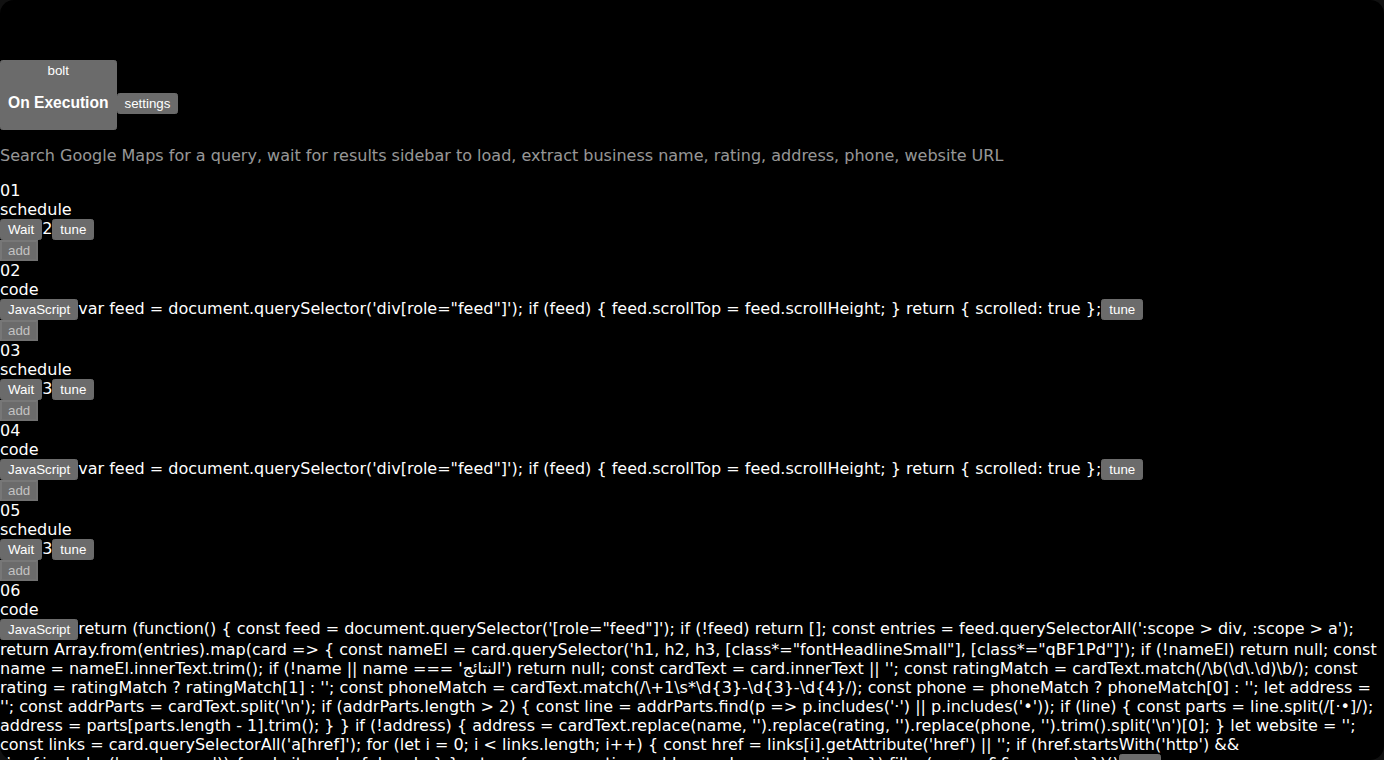
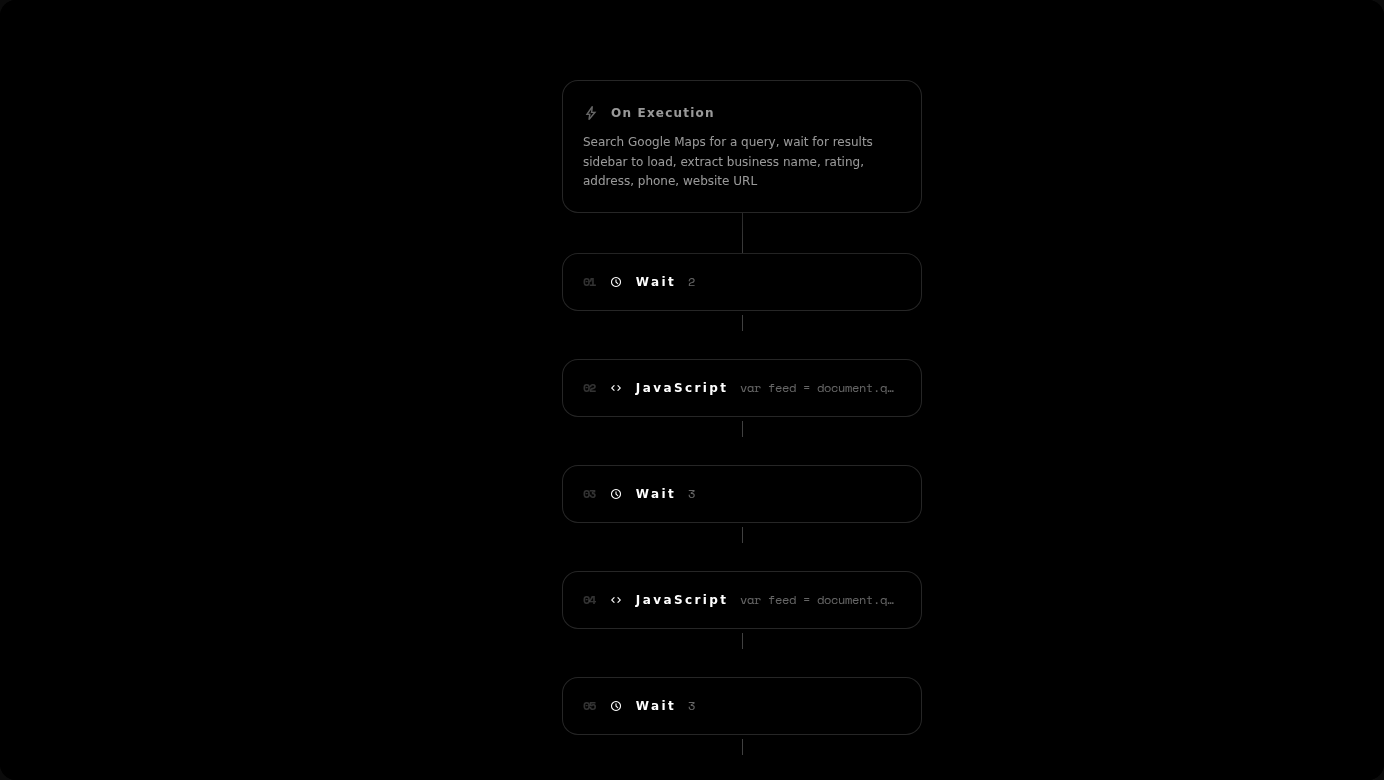
Fix Figranium styling and use live CSS fallback (#4)
* fix: compile canonical Tailwind styles

* fix: process Figranium Tailwind in embed builds

* fix: scan canonical Figranium UI classes

* feat: prefer live Figranium CSS with bundled fallback

* feat: add deterministic bundled-style option

* test: verify styled live embed and recapture screenshot

* ci: recapture corrected Embed screenshot

* docs: replace broken embed screenshot

* docs: explain live styles and bundled fallback

* docs: replace broken embed screenshot

* fix: load canonical Figranium fonts in iframe

* docs: replace broken embed screenshot

* docs: clarify read-only presentation controls

* docs: replace broken embed screenshot

* docs: clarify preserved task content

* docs: replace broken embed screenshot

* fix: guarantee read-only control hiding in embed CSS

* fix: hide all insertion controls in read-only embed

* docs: replace broken embed screenshot

* chore: remove temporary screenshot test harness

* chore: remove temporary screenshot workflow

---------

diff --git a/src/iframe.tsx b/src/iframe.tsx
@@ -8,9 +8,11 @@ const PROTOCOL_VERSION = 1;
 const READY = 'figranium:embed:ready';
 const SET_TASK = 'figranium:embed:set-task';
 const RESIZE = 'figranium:embed:resize';
+const LIVE_CSS_URL = 'https://raw.githubusercontent.com/figranium/figranium/embed-assets/embed.css';
 
 function IframeApp() {
   const [task, setTask] = useState<Task | null>(null);
+  const [preferBundled, setPreferBundled] = useState<boolean | null>(null);
 
   useEffect(() => {
     let lockedOrigin: string | null = null;
@@ -31,6 +33,7 @@ function IframeApp() {
       }
       if (event.origin !== lockedOrigin || event.source !== lockedSource) return;
 
+      setPreferBundled(Boolean(data.preferBundled));
       setTask(data.task as Task);
     };
 
@@ -38,6 +41,37 @@ function IframeApp() {
     sendReady();
     return () => window.removeEventListener('message', onMessage);
   }, []);
+
+  useEffect(() => {
+    if (preferBundled !== false) return;
+
+    const controller = new AbortController();
+    const timeout = window.setTimeout(() => controller.abort(), 2500);
+
+    void fetch(LIVE_CSS_URL, { cache: 'no-store', signal: controller.signal })
+      .then(async (response) => {
+        if (!response.ok) throw new Error(`Live Figranium CSS returned ${response.status}`);
+        const css = await response.text();
+        if (!css.includes('--app-bg') || css.length < 1000) {
+          throw new Error('Live Figranium CSS failed validation.');
+        }
+
+        const style = document.createElement('style');
+        style.dataset.figraniumLive = 'true';
+        style.textContent = css;
+        document.head.appendChild(style);
+      })
+      .catch(() => {
+        // Bundled CSS remains active as the offline/unavailable fallback.
+      })
+      .finally(() => window.clearTimeout(timeout));
+
+    return () => {
+      controller.abort();
+      window.clearTimeout(timeout);
+      document.querySelector('style[data-figranium-live="true"]')?.remove();
+    };
+  }, [preferBundled]);
 
   useEffect(() => {
     if (!task) return;

diff --git a/src/mount.ts b/src/mount.ts
@@ -12,6 +12,8 @@ export interface MountFigraniumEmbedOptions {
   className?: string;
   title?: string;
   autoResize?: boolean;
+  /** Use only the CSS bundled with this package instead of checking for current Figranium styles. */
+  preferBundled?: boolean;
 }
 
 export interface FigraniumEmbedController {
@@ -39,10 +41,11 @@ export function mountFigraniumEmbed(
 
   let task = options.task;
   const autoResize = options.autoResize ?? true;
+  const preferBundled = options.preferBundled ?? false;
 
   const sendTask = () => {
     iframe.contentWindow?.postMessage(
-      { type: SET_TASK, version: PROTOCOL_VERSION, task },
+      { type: SET_TASK, version: PROTOCOL_VERSION, task, preferBundled },
       '*',
     );
   };

diff --git a/iframe.internal.html b/iframe.internal.html
@@ -4,6 +4,16 @@
     <meta charset="UTF-8" />
     <meta name="viewport" content="width=device-width, initial-scale=1.0" />
     <meta name="color-scheme" content="dark" />
+    <link rel="preconnect" href="https://fonts.googleapis.com" />
+    <link rel="preconnect" href="https://fonts.gstatic.com" crossorigin />
+    <link
+      href="https://fonts.googleapis.com/css2?family=Questrial&family=Space+Mono:ital,wght@0,400;0,700;1,400;1,700&display=swap"
+      rel="stylesheet"
+    />
+    <link
+      href="https://fonts.googleapis.com/css2?family=Material+Symbols+Outlined:opsz,wght,FILL,GRAD@20..48,100..700,0..1,-50..200"
+      rel="stylesheet"
+    />
     <title>Figranium Embed</title>
   </head>
   <body>

diff --git a/src/style.css b/src/style.css
@@ -14,6 +14,14 @@
   user-select: none;
 }
 
+/* Hide editor-only controls while preserving task labels and summaries. */
+.figranium-embed .figranium-readonly-canvas button[data-action-drop-scope],
+.figranium-embed .figranium-readonly-canvas button[aria-label^="Add action"],
+.figranium-embed .figranium-readonly-canvas button[aria-label="Configure block"],
+.figranium-embed .figranium-readonly-canvas button[aria-label="Open Task Settings"] {
+  display: none !important;
+}
+
 .figranium-embed__interaction-shield {
   position: absolute;
   inset: 0;

diff --git a/README.md b/README.md
@@ -4,7 +4,7 @@ Read-only Figranium task rendering inside a real iframe, with **no server and no
 
 ![Google Maps Leads Scraper rendered with Figranium Embed](./assets/google-maps-leads-scraper.png)
 
-The screenshot above is captured from the real zero-host iframe using the **Google Maps Leads Scraper** preset from Figranium Templates Hub.
+The screenshot above is captured from the real zero-host iframe using the **Google Maps Lead Scraper** preset from Figranium Templates Hub.
 
 `@figranium/embed` ships the iframe document inside the package. The package creates an iframe with `srcdoc`, loads Figranium's canonical read-only UI inside it, and passes task JSON through a small internal `postMessage` protocol.
 
@@ -40,7 +40,7 @@ embed.destroy();
 
 ## What the iframe can do
 
-It renders only what already exists in the task. It cannot edit blocks, open configuration modals, add or drag actions, save, run tasks, open the browser, use the selector picker, authenticate, or persist anything.
+It renders only what already exists in the task. Task labels and summaries remain visible while editor-only add, settings, and tune controls are hidden. It cannot edit blocks, open configuration modals, add or drag actions, save, run tasks, open the browser, use the selector picker, authenticate, or persist anything.
 
 The iframe is sandboxed with scripts enabled and receives task data only from the page that created it.
 
@@ -48,7 +48,18 @@ The iframe is sandboxed with scripts enabled and receives task data only from th
 
 This repository does **not** maintain a copied Figranium editor. Before each package build, it clones `figranium/figranium` and builds the iframe document from Figranium's canonical `src/embed` entrypoint and stylesheet.
 
-Figranium exposes a purpose-built `ReadOnlyCanvas`, so Embed does not depend on the editor's internal prop surface. The compiled iframe document is then inlined into the npm package itself. CI rebuilds against current Figranium so incompatible upstream UI changes fail instead of silently drifting.
+At runtime, the iframe prefers the latest **compiled** canonical Figranium stylesheet published automatically from `figranium/figranium` UI changes. If that stylesheet is unavailable, invalid, blocked, or the user is offline, Embed keeps using the fully compiled stylesheet bundled into the installed npm package. There is still no hosted iframe endpoint.
+
+For deterministic/offline-only rendering, disable the live stylesheet check:
+
+```js
+mountFigraniumEmbed('#figranium-task', {
+  task,
+  preferBundled: true,
+});
+```
+
+Figranium exposes a purpose-built `ReadOnlyCanvas`, so Embed does not depend on the editor's internal prop surface. CI also rebuilds against current Figranium so incompatible upstream UI changes fail instead of silently drifting.
 
 `FIGRANIUM_REF` can pin a build to a specific Figranium branch or tag; release builds default to `main`.
 
